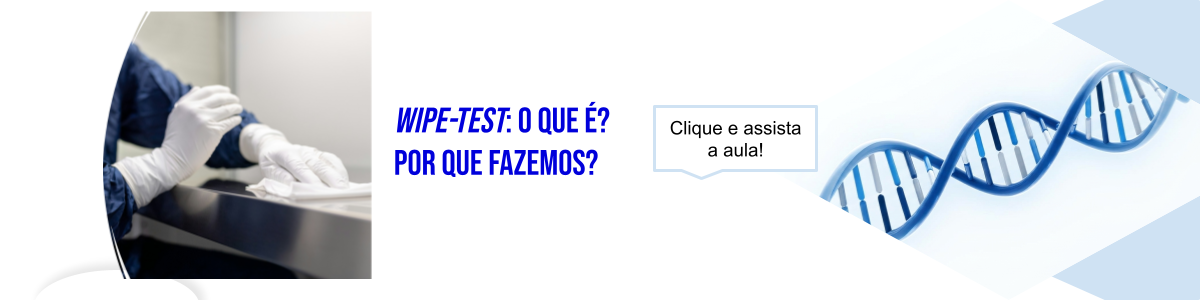
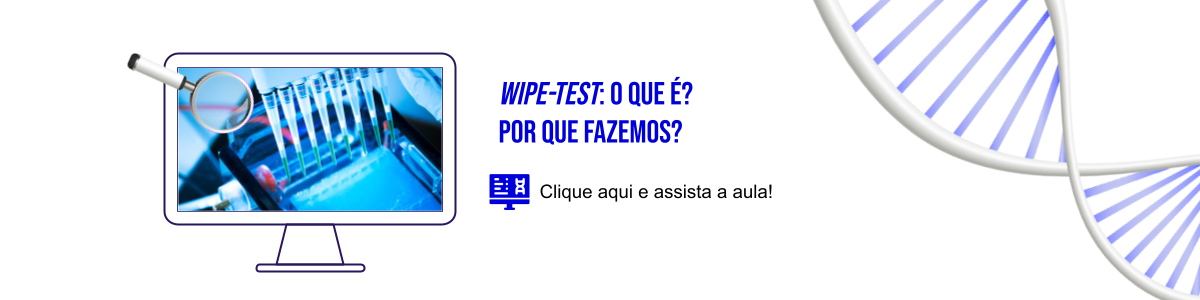
feat: atualização painel de notícias, feriados no FullCalendar e botão de submissão em Eventos

diff --git a/web/js/main.js b/web/js/main.js
@@ -313,6 +313,18 @@ function initPlantaoSection() {
         height: 'auto',
         dayMaxEvents: false,
         events: escalaEvents,
+        dayCellClassNames: function (arg) {
+          return getHolidayLabel(arg.date) ? ['fc-day-holiday'] : [];
+        },
+        dayCellDidMount: function (arg) {
+          const holidayLabel = getHolidayLabel(arg.date);
+
+          if (holidayLabel) {
+            arg.el.classList.add('fc-day-holiday');
+            arg.el.title = holidayLabel;
+            arg.el.dataset.holidayLabel = holidayLabel;
+          }
+        },
         datesSet: function (info) {
           applyPlantaoFilters(calendar);
           updatePlantaoInfoByMonth(info.view.currentStart);
@@ -362,6 +374,73 @@ function formatLocalDate(date) {
   const day = String(date.getDate()).padStart(2, '0');
 
   return year + '-' + month + '-' + day;
+}
+
+const holidayCache = new Map();
+
+function getHolidayLabel(date) {
+  if (!(date instanceof Date) || Number.isNaN(date.getTime())) {
+    return '';
+  }
+
+  const year = date.getFullYear();
+
+  if (!holidayCache.has(year)) {
+    holidayCache.set(year, buildHolidayMap(year));
+  }
+
+  return holidayCache.get(year).get(formatLocalDate(date)) || '';
+}
+
+function buildHolidayMap(year) {
+  const holidays = new Map();
+
+  addHoliday(holidays, year, 1, 1, 'Confraternização Universal');
+  addHoliday(holidays, year, 1, 25, 'Aniversário de São Paulo');
+  addHoliday(holidays, year, 4, 21, 'Tiradentes');
+  addHoliday(holidays, year, 5, 1, 'Dia do Trabalho');
+  addHoliday(holidays, year, 7, 9, 'Revolução Constitucionalista de 1932');
+  addHoliday(holidays, year, 9, 7, 'Independência do Brasil');
+  addHoliday(holidays, year, 10, 12, 'Nossa Senhora Aparecida');
+  addHoliday(holidays, year, 11, 2, 'Finados');
+  addHoliday(holidays, year, 11, 15, 'Proclamação da República');
+  addHoliday(holidays, year, 11, 20, 'Consciência Negra');
+  addHoliday(holidays, year, 12, 25, 'Natal');
+
+  const easterSunday = getEasterSunday(year);
+  addHoliday(holidays, easterSunday.getFullYear(), easterSunday.getMonth() + 1, easterSunday.getDate() - 2, 'Sexta-feira Santa');
+  addHoliday(holidays, easterSunday.getFullYear(), easterSunday.getMonth() + 1, easterSunday.getDate() + 60, 'Corpus Christi');
+
+  return holidays;
+}
+
+function addHoliday(map, year, month, day, label) {
+  const date = new Date(year, month - 1, day);
+
+  if (date.getFullYear() !== year) {
+    return;
+  }
+
+  map.set(formatLocalDate(date), label);
+}
+
+function getEasterSunday(year) {
+  const a = year % 19;
+  const b = Math.floor(year / 100);
+  const c = year % 100;
+  const d = Math.floor(b / 4);
+  const e = b % 4;
+  const f = Math.floor((b + 8) / 25);
+  const g = Math.floor((b - f + 1) / 3);
+  const h = (19 * a + b - d - g + 15) % 30;
+  const i = Math.floor(c / 4);
+  const k = c % 4;
+  const l = (32 + 2 * e + 2 * i - h - k) % 7;
+  const m = Math.floor((a + 11 * h + 22 * l) / 451);
+  const month = Math.floor((h + l - 7 * m + 114) / 31);
+  const day = ((h + l - 7 * m + 114) % 31) + 1;
+
+  return new Date(year, month - 1, day);
 }
 
 function applyPlantaoFilters(calendar) {
@@ -534,6 +613,9 @@ function bindPlantaoPdfExport() {
       });
     }
 
+      // Reforca a classe de feriado no clone para garantir o destaque na impressao.
+      tagHolidayCells(calendarClone);
+
     const titleEl = document.querySelector('.fc-toolbar-title');
     const title = titleEl ? titleEl.textContent : 'Escala de Plantões';
     const fullCalendarCss = 'https://cdn.jsdelivr.net/npm/fullcalendar@6.1.10/index.global.min.css';
@@ -570,6 +652,9 @@ function bindPlantaoPdfExport() {
       --print-noturno-soft: #e9f1ff;
       --print-ti: #2e7d32;
       --print-ti-soft: #ebf7ec;
+      --print-holiday-bg: #edf7f2;
+      --print-holiday-border: #b8dcc9;
+      --print-holiday-accent: #2f7d58;
     }
     * {
       box-sizing: border-box;
@@ -687,6 +772,23 @@ function bindPlantaoPdfExport() {
       min-height: 58px;
       height: auto;
       padding: 1px;
+    }
+      .fc-daygrid-day.fc-day-holiday {
+        background: var(--print-holiday-bg) !important;
+        -webkit-print-color-adjust: exact !important;
+        print-color-adjust: exact !important;
+      }
+    .fc-daygrid-day.fc-day-holiday .fc-daygrid-day-frame {
+      background: var(--print-holiday-bg) !important;
+      box-shadow: inset 0 0 0 1px var(--print-holiday-border) !important;
+    }
+    .fc-daygrid-day.fc-day-holiday .fc-daygrid-day-number {
+      color: var(--print-holiday-accent) !important;
+      font-weight: 800 !important;
+    }
+    .fc-daygrid-day.fc-day-holiday.fc-day-today .fc-daygrid-day-frame {
+      background: var(--print-holiday-bg) !important;
+      box-shadow: inset 0 0 0 2px var(--print-holiday-border) !important;
     }
     .fc .fc-daygrid-day-top {
       justify-content: flex-end;
@@ -814,6 +916,11 @@ function bindPlantaoPdfExport() {
         border-style: solid !important;
         border-width: 1px !important;
       }
+        .fc-daygrid-day.fc-day-holiday {
+          background: var(--print-holiday-bg) !important;
+          -webkit-print-color-adjust: exact !important;
+          print-color-adjust: exact !important;
+        }
       .fc .fc-daygrid-day-frame {
         min-height: 52px;
       }
@@ -842,6 +949,21 @@ function bindPlantaoPdfExport() {
       printWindow.focus();
       printWindow.print();
     }, 500);
+  });
+}
+
+function tagHolidayCells(containerEl) {
+  if (!containerEl) return;
+
+  containerEl.querySelectorAll('.fc-daygrid-day[data-date]').forEach(function (dayCell) {
+    const dateText = dayCell.getAttribute('data-date');
+    if (!dateText) return;
+
+    const holidayLabel = getHolidayLabel(new Date(dateText + 'T00:00:00'));
+    if (!holidayLabel) return;
+
+    dayCell.classList.add('fc-day-holiday');
+    dayCell.setAttribute('title', holidayLabel);
   });
 }
 
@@ -938,14 +1060,33 @@ async function initEventosCongressos() {
         infoEl.appendChild(localEl);
       }
 
-      if (evento.link) {
+      const linksWrap = document.createElement('div');
+      linksWrap.className = 'congress-links';
+      const eventLink = evento.link || '';
+      const submitLink = evento.link_submissao || evento.linkSubmissao || evento.submissao || '';
+
+      if (eventLink) {
         const linkEl = document.createElement('a');
         linkEl.className = 'congress-link';
-        linkEl.href = evento.link;
+        linkEl.href = eventLink;
         linkEl.target = '_blank';
         linkEl.rel = 'noopener noreferrer';
         linkEl.textContent = 'Saiba mais';
-        infoEl.appendChild(linkEl);
+        linksWrap.appendChild(linkEl);
+      }
+
+      if (submitLink) {
+        const submitEl = document.createElement('a');
+        submitEl.className = 'congress-link congress-link-submit';
+        submitEl.href = submitLink;
+        submitEl.target = '_blank';
+        submitEl.rel = 'noopener noreferrer';
+        submitEl.textContent = 'Submissão';
+        linksWrap.appendChild(submitEl);
+      }
+
+      if (linksWrap.childElementCount > 0) {
+        infoEl.appendChild(linksWrap);
       }
 
       card.appendChild(dateEl);

diff --git a/web/css/style.css b/web/css/style.css
@@ -20,6 +20,9 @@
   --event-diurno: #d32f2f;
   --event-noturno: #1565c0;
   --event-ti: #2e7d32;
+  --holiday-bg: #edf7f2;
+  --holiday-border: #b8dcc9;
+  --holiday-accent: #2f7d58;
   --border-soft: #dbe2ea;
   --border-strong: #7c8b9b;
   --shadow-sm: 0 1px 3px rgba(0, 0, 0, 0.08);
@@ -591,6 +594,25 @@ a {
   height: auto !important;
 }
 
+.fc-daygrid-day.fc-day-holiday .fc-daygrid-day-frame {
+  background: var(--holiday-bg) !important;
+  box-shadow: inset 0 0 0 1px var(--holiday-border) !important;
+}
+
+.fc-daygrid-day.fc-day-holiday .fc-daygrid-day-number {
+  color: var(--holiday-accent) !important;
+  font-weight: 700 !important;
+}
+
+.fc-daygrid-day.fc-day-holiday.fc-day-today .fc-daygrid-day-frame {
+  background: var(--holiday-bg) !important;
+  box-shadow: inset 0 0 0 2px var(--holiday-border) !important;
+}
+
+.fc-daygrid-day.fc-day-holiday .fc-col-header-cell-cushion {
+  color: var(--holiday-accent) !important;
+}
+
 .fc-daygrid-day-events {
   margin-top: 0 !important;
   padding: 2px 4px !important;
@@ -891,6 +913,18 @@ a {
   border-radius: calc(var(--radius-sm) - 4px);
   background: var(--blue-soft);
   text-decoration: none;
+}
+
+.congress-links {
+  display: flex;
+  flex-wrap: wrap;
+  gap: 8px;
+  margin-top: 8px;
+}
+
+.congress-link-submit {
+  background: #e8eff8;
+  color: var(--blue-darker);
 }
 
 /* ========== RODAPE / FOOTER ========== */

diff --git a/api/src/srv_intranet_api/services/sheets.py b/api/src/srv_intranet_api/services/sheets.py
@@ -111,6 +111,17 @@ class SheetService:
                     "titulo": titulo,
                     "local": _clean_text(row["Local"]),
                     "link": _clean_text(row["Link"]),
+                    "link_submissao": _first_text(
+                        row,
+                        [
+                            "Link Submissao",
+                            "Link Submissão",
+                            "Submissao",
+                            "Submissão",
+                            "Link_Submissao",
+                            "Link_Submissão",
+                        ],
+                    ),
                 }
             )
 
@@ -244,3 +255,13 @@ def _parse_date(value: Any) -> date | None:
 
 def _sort_key(value: str) -> str:
     return value.casefold()
+
+
+def _first_text(row: dict[str, Any], keys: list[str]) -> str:
+    for key in keys:
+        if key in row:
+            value = _clean_text(row[key])
+            if value:
+                return value
+
+    return ""

diff --git a/api/src/srv_intranet_api/schemas.py b/api/src/srv_intranet_api/schemas.py
@@ -52,6 +52,7 @@ class EventoItem(BaseModel):
                     "titulo": "Evento Institucional Exemplo",
                     "local": "São Paulo, Brasil",
                     "link": "https://example.org/evento",
+                    "link_submissao": "https://example.org/submissao",
                 }
             ]
         }
@@ -61,6 +62,11 @@ class EventoItem(BaseModel):
     titulo: str = Field(description="Event title.", examples=["Evento Institucional Exemplo"])
     local: str = Field(description="Event location.", examples=["São Paulo, Brasil"])
     link: str = Field(description="External event URL.", examples=["https://example.org/evento"])
+    link_submissao: str = Field(
+        default="",
+        description="Optional external submission URL for the event.",
+        examples=["https://example.org/submissao"],
+    )
 
 
 class RamalItem(BaseModel):